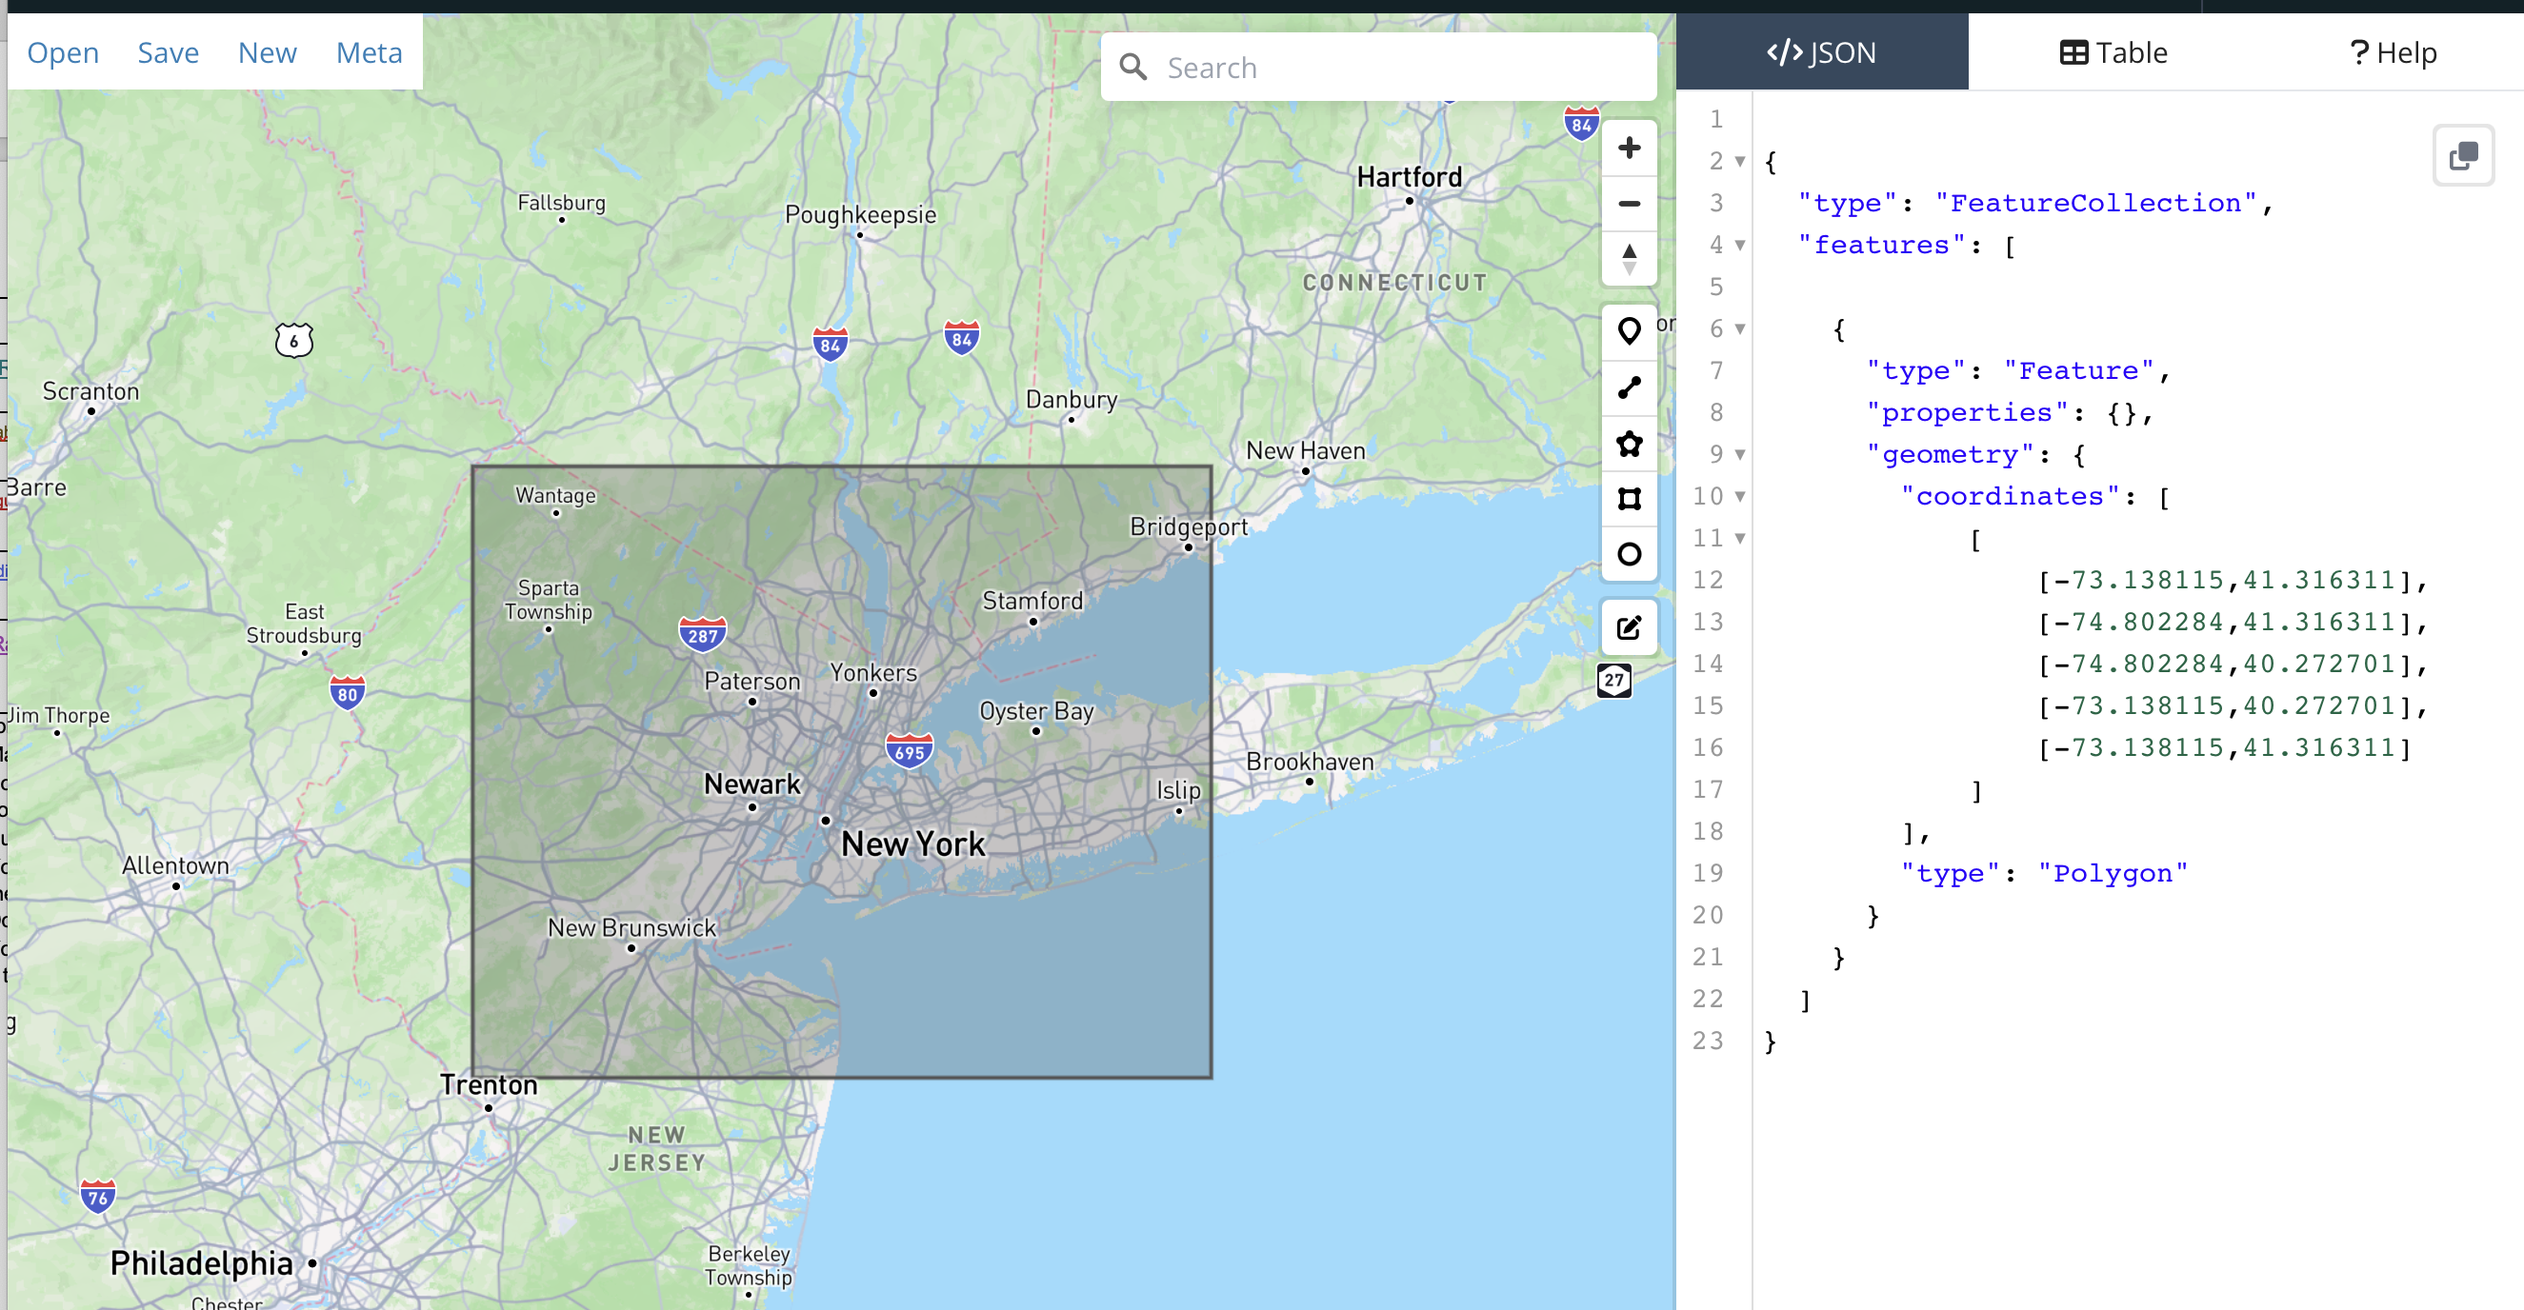
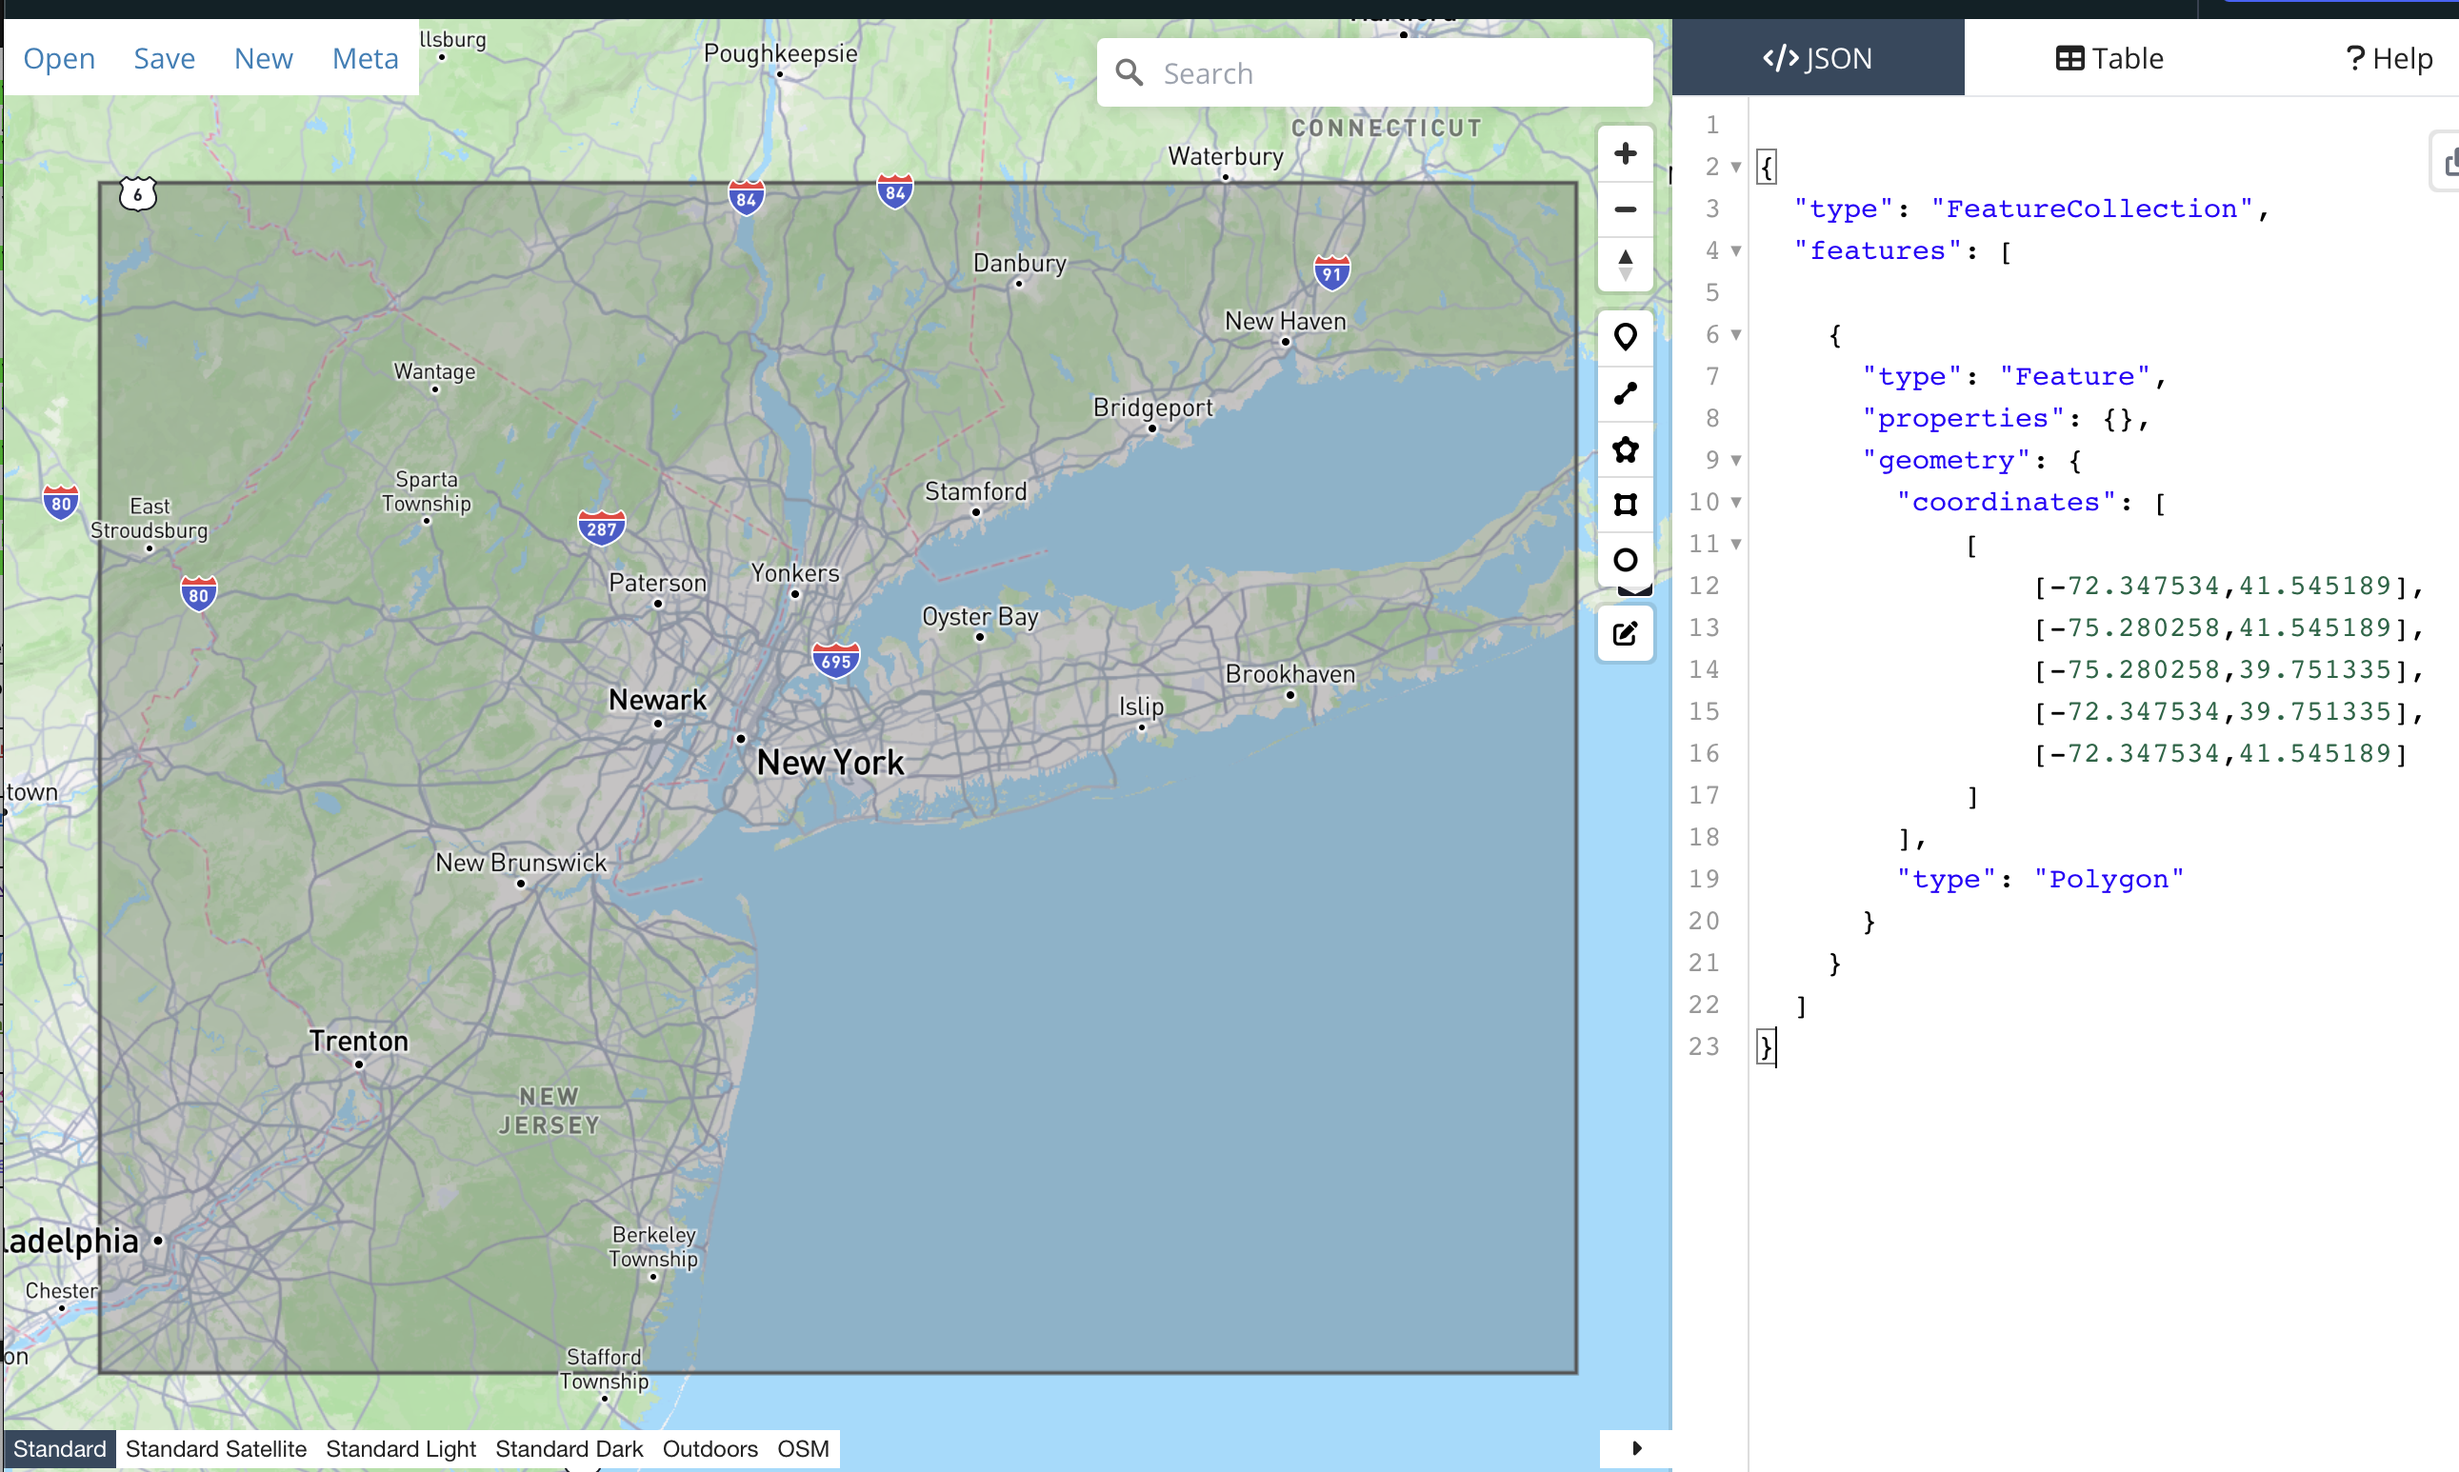
More files, update readme.

diff --git a/README.md b/README.md
@@ -2,6 +2,10 @@ test
 ## Date Range
 The date range was determined using the trip pickup times.  Each row was converted to a DT object and compared against previous entries to determine the most recent and most historic values.  Default values in the past/future were used to initialize the values.  The dates could also have been evaluated based on the drop-off time to get some more recent items, though this effort was focused on the pickup times.
 
+    The file has 13,971,118 lines.
+    The latest date is : 2013-12-31 23:59:57
+    The earliest date is : 2013-12-01 00:00:00
+
 ## Field Names
 The data file has an included header line where the data field names were retrieved.  They are shown below with an example value and a brief description.
     'medallion': 'C13BD886F362AC4D71FEB912091AB76A'         These are permits for taxi companies to operate in New York City.  Each one is a unique number and is transferable to others for a fee.
@@ -19,27 +23,6 @@ The data file has an included header line where the data field names were retrie
     'dropoff_longitude': '-73.952324'                       The longitude coordinate at the dropoff location.
     'dropoff_latitude': '40.826633'                         The latitude coordinate at the dropoff location.
 
-## Geographic Area
-The geographic area plot is provided below.  A more indepth description of the filtering method is provided in [here](#filtering).   The area generally aligns with the tri-state area that would be typical of a NYC taxi trip.
-
-![A plot of the coordinates for the large dataset](/GeographicArea.png)
-
-
-## Trip Distances
-Trip distances were binned to a variety of distances and plotted to show the number of occurences.  The bins were generated using a list and the modulous operator.  Iterating through the list in a loop until the value was no longer greater than the list value selected the appropriate bin and updated a dictionary with the counts.
-
-### Binning section for trip distances.
-Example code is shown below.
-```
-for i in tripDistanceBins:
-    if float(line[9]) <i:
-        distBin[i]+=1
-        break
-    if i == len(tripDistanceBins):
-        distBin[i] +=1
-```
-![Trip Distancec Histogram](/TripDistanceHistogram.png)
-
 ## Filtering outliers and invalid data 
 <a name ="filtering"></a>
 Several iterations of filtering were attempted and an effort was made to generalize the solution.  Initially, a fixed bounding of lat/lon coordinates was used to force all trips to occur within a given geographic area.  This is somewhat difficult to apply more generally, since new unique coordinates would be required each time.
@@ -49,3 +32,90 @@ Another angle was to use the trip distance and compare it to the lat/lon haversh
 The end solution was to use a fixed geographic point and use a radius around it to filter trips that did not start within a reasonable distance.  In this case a 100km radius was used around central NYC coordinates gathered from wikipedia.  This solution allows more options in the future to apply a similar code structure to other geographic areas without requiring major code revisions.
 
 ![another one](/NYC_Radius.png)
+
+## Geographic Area
+The geographic area plot is provided below.  A more indepth description of the filtering method is provided in [here](#filtering).   The area generally aligns with the tri-state area that would be typical of a NYC taxi trip.
+
+The highest lat/long  :  41.545189 | -72.347534
+The lowest lat/long   :  39.751335 | -75.280258
+
+![A plot of the coordinates for the large dataset](/GeographicArea.png)
+
+
+## Trip Distances
+Trip distances were binned to a variety of distances and plotted to show the number of occurences.  The bins were generated iterating through the list in a loop until the value was no longer greater than the list value selected the appropriate bin and updated a dictionary with the counts.  A bins variable was used in case the values for the bins needs to be adjusted.  Results were then displayed using a barplot.  Most of the trips are focused on the lower end of the distance scale.
+Example code is shown below.
+```
+tripDistanceBins = [0.5,.75,1,1.5,2,3,4,5,10,25]
+for i in tripDistanceBins:
+    if float(line[9]) <i:
+        distBin[i]+=1
+        break
+    if i == len(tripDistanceBins):
+        distBin[i] +=1
+```
+![Trip Distancec Histogram](/TripDistanceHistogram.png)
+
+
+## Min and Max Values
+Multiple approaches to caching the min and max values were used.  An improvement on these would be to generate methods that can be used in many spots without duplicating so much code. 
+
+One method used 2 variables to track the item.  This was initially used for debugging and troubleshooting, but ended up being effective enough to use for the data gathering.
+
+```
+if currentDate>cacheDateH:
+    cacheDateH=currentDate
+if currentDate<cacheDateL:
+    cacheDateL=currentDate
+```
+
+The next method used a list to compact this somewhat.  Many lists were still generated to support this.  The overall implementation was somewhat cleaner and easier to keep track of.  Ultimately some type of dictionary of lists would have been more preferred.
+```
+if float(line[9]) > tripDistMinMax[1]: tripDistMinMax[1]=float(line[9])
+if float(line[9]) < tripDistMinMax[0] and float(line[9]) > 0: tripDistMinMax[0]=float(line[9])
+```
+The min and max values are shown below.
+    Distance min: 0.01 -- max: 100.0
+    Time min: 1.0 -- max: 10800.0
+    Passengers min: 1.0 -- max: 9.0
+
+
+
+## Average Travel Distance
+
+Average travel distance was calculated using the provided Haversine distance calculator.  A running tally of trips and total distance was generated and the average caclculated at the end.  Trips of 0 distance reported were excluded from this summation.
+
+The data showed a total distance of 28,752,009.93686609 miles acrossed 13,432,221 trips for an average distance per trip of 2.140525378257705 miles
+
+## MySQL Data Types
+For the various fields, options are given for MySQL data types.  Most of self evident for which data type would be appropriate.  Vendor ID included all use 3 characters, though an additional character would give some assurance that future items wouldn't cause an overflow.  The store_and_fwd_flag reports Y/N and could be bool or varchar(1) depending on the required implementation.
+
+    medallian - varchar(32)
+    hack_license - varchar(32)
+    vendor ID - varchar(4)
+    rate code - int
+    store_and_fwd_flag - bool or varchar(1)
+    pickup_datetime - datetime
+    dropoff_datetime - datetime
+    passenger_count - int
+    trip_time_in_secs - int
+    trip_distance - decimal(10,2)
+    lat/long - decimal(8,6)
+
+
+## Passengers per hour
+The average passengers per hour was computed for the entire data set.  This means that all hours across the entire range were summarized together and averaged after full review.  This can be interpretted many ways, for the purposes of this review, the hours were analyzed together for all days.
+
+A code snippet shows the implementation.  A blank dictionary with each hour of the day included is generated.  Using the datetime object, the hour was used to update the appropriate dictionary item when a new trip was found.  The number of trips and the number of passengers was saved and used for the final computation.
+
+```
+dateDict = {k:[0,0] for k in range(0,24)}
+dateDict[currentDate.hour][0] += 1
+dateDict[currentDate.hour][1] += int(line[7])
+```
+
+For the entire dataset, the hour trend is shown.
+![passengers by hour, entire dataset](/fullPassengerPerHour.png)
+
+The same plot was generated on the summarized dataset.
+![passengers by hour, smapled dataset](/samplePassengerPerHour.png)
